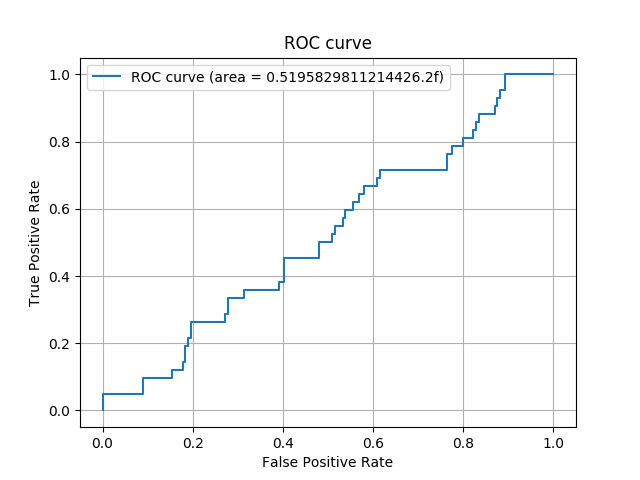
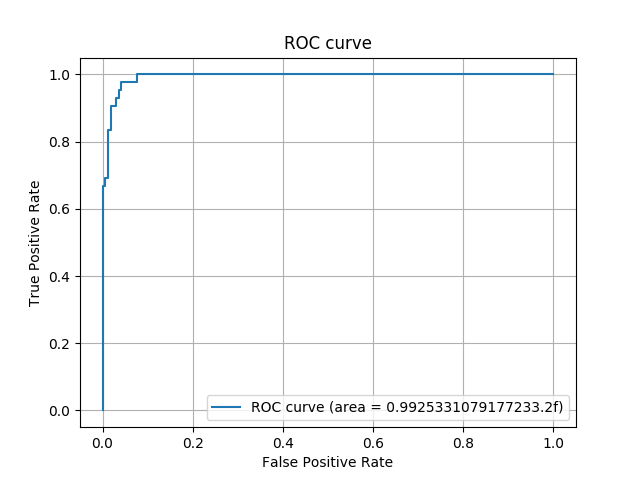
use sigmoid_cross_entropy

diff --git a/neo_review/scripts/nn/load_data.py b/neo_review/scripts/nn/load_data.py
@@ -43,7 +43,7 @@ class LoadData:
 
             train_x, train_y = shuffle_samples(
                 pkl_train_x.values.astype(np.float32),
-                pkl_train_y.values.astype(np.float32),
+                pkl_train_y.values.astype(np.int),
             )
 
             train = chainer.datasets.DictDataset(x=train_x, y=train_y)
@@ -55,7 +55,7 @@ class LoadData:
 
             test_x, test_y = (
                 pkl_test_x.values.astype(np.float32),
-                pkl_test_y.values.astype(np.float32),
+                pkl_test_y.values.astype(np.int),
             )
             test = chainer.datasets.DictDataset(x=test_x, y=test_y)
 

diff --git a/neo_review/scripts/nn/predict.py b/neo_review/scripts/nn/predict.py
@@ -51,7 +51,7 @@ class Predict:
         plt.plot(fpr, tpr, label='ROC curve (area = {}.2f)'.format(auc))
 
         print("confusion matrix:\n {}".format(
-            confusion_matrix(y_true, [y > 0.7 for y in y_score]),
+            confusion_matrix(y_true, [y > 10 for y in y_score]),
         ))
         print("auc: {}".format(auc))
 

diff --git a/neo_review/scripts/nn/neural_network_model.py b/neo_review/scripts/nn/neural_network_model.py
@@ -33,7 +33,7 @@ class NeuralNetworkModel(Chain):
 
     def __call__(self, x, y):
         y = y.reshape(-1, self._n_out)
-        loss = F.mean_squared_error(self.forward(x), y)
+        loss = F.sigmoid_cross_entropy(self.forward(x), y)
         chainer.reporter.report({'loss': loss}, self)
         return loss
 

diff --git a/neo_review/scripts/nn/optimize_parameter.py b/neo_review/scripts/nn/optimize_parameter.py
@@ -59,7 +59,7 @@ class NeuralNetworkModel(Chain):
 
     def __call__(self, x, y):
         y = y.reshape(-1, 1)
-        loss = F.mean_squared_error(self.create_model(x), y)
+        loss = F.sigmoid_cross_entropy(self.create_model(x), y)
         chainer.reporter.report({'loss': loss}, self)
         return loss
 
